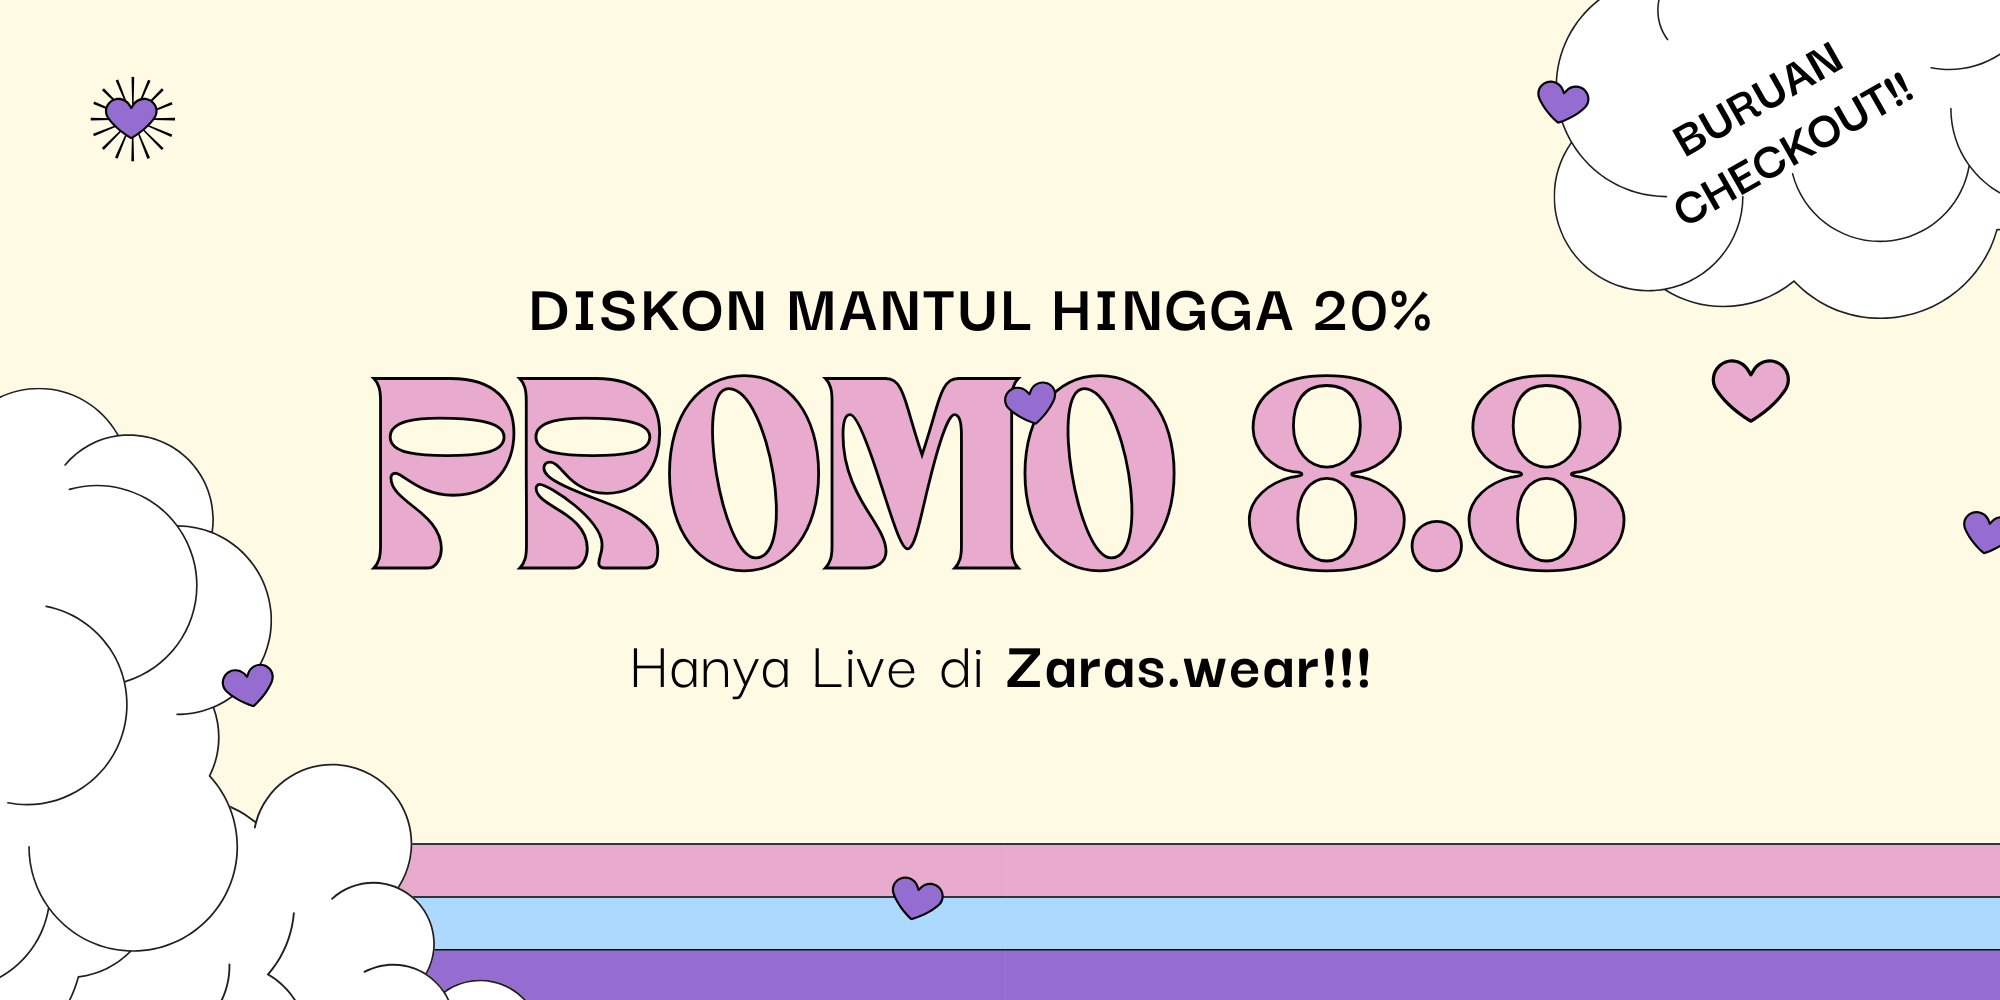
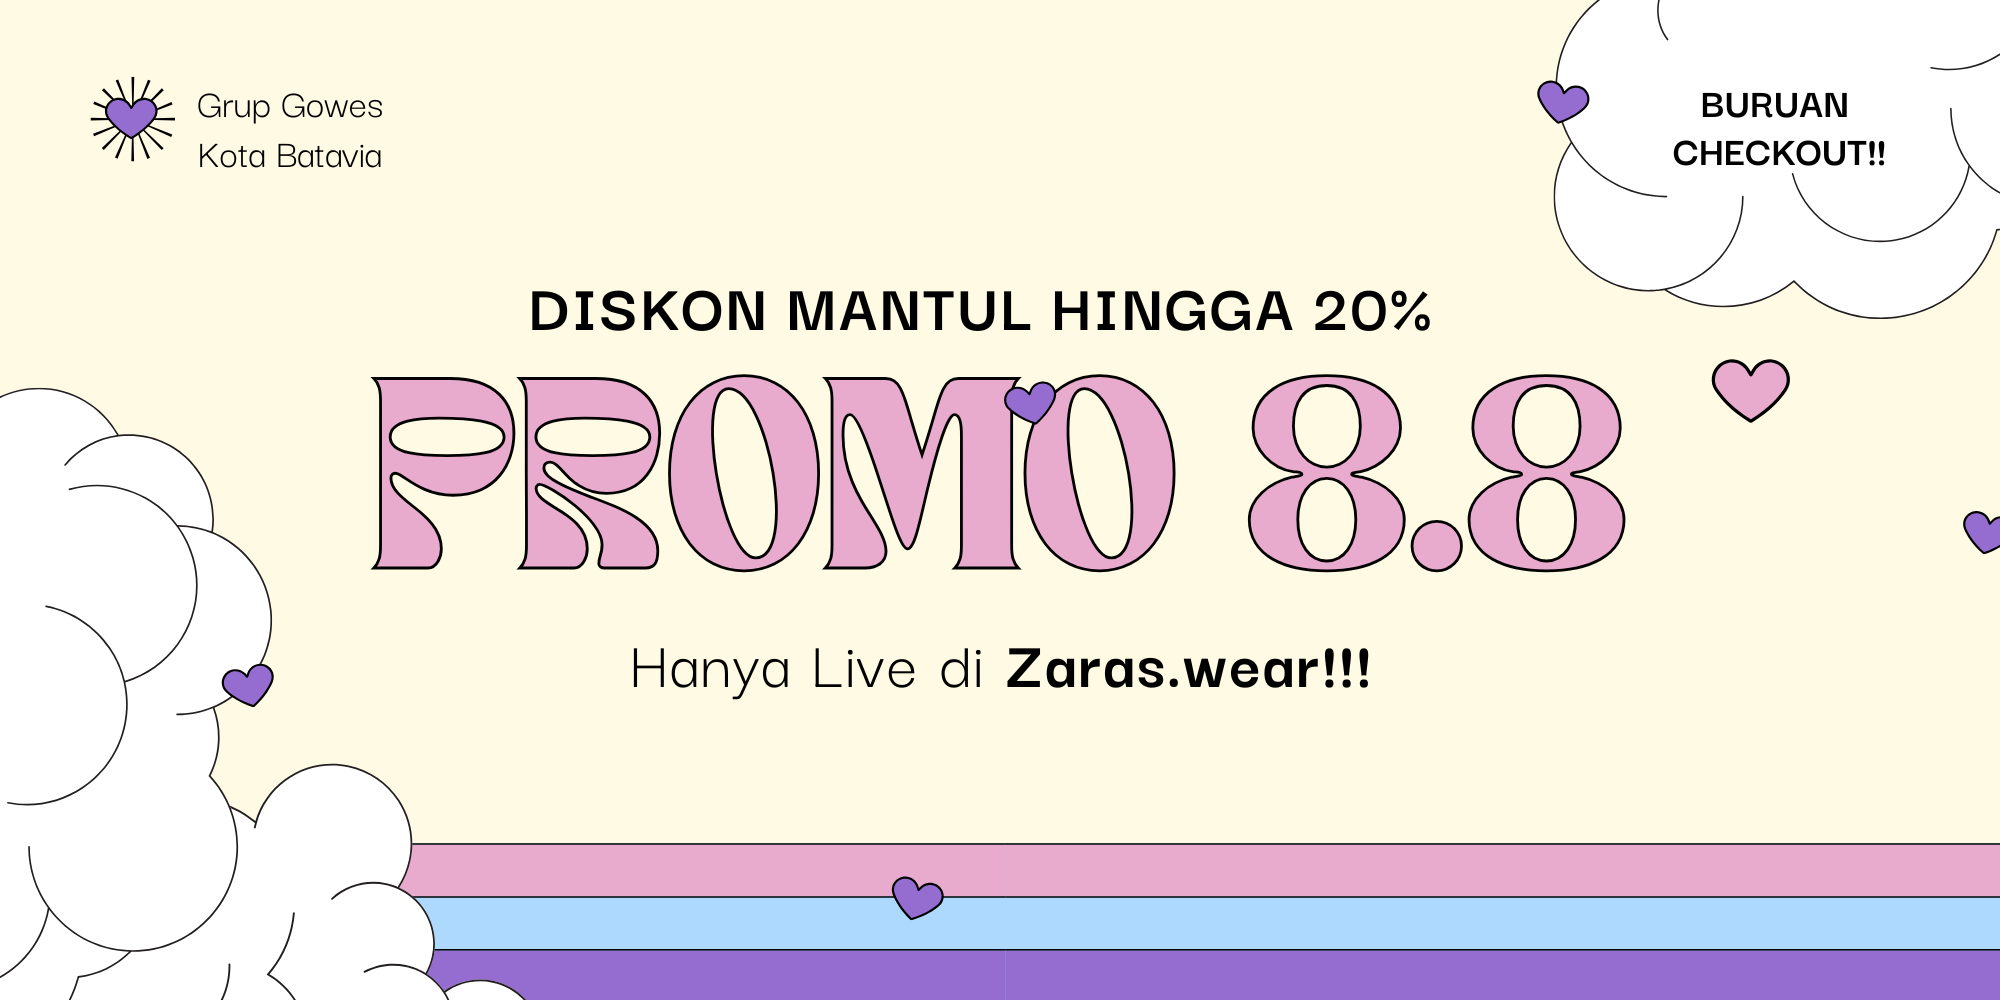
Fix: Update Interface

Changed region(s): [[0.837, 0.031, 0.961, 0.217], [0.093, 0.155, 0.186, 0.186], [0.093, 0.093, 0.186, 0.124]]

diff --git a/templates/sidebar.html b/templates/sidebar.html
@@ -36,7 +36,7 @@
 <body>
   <header class="navbar navbar-dark sticky-top flex-md-nowrap p-0 shadow" style="height: 65px;">
     <a class="navbar-brand col-md-3 col-lg-2 me-0 px-3" href="#" style="margin-left: 20px;"><img
-        src="{{ url_for('static', filename='assets/img/Logo Zaraswear.png') }}" alt="" style="max-width: 50px;"></a>
+        src="{{ url_for('static', filename='assets/img/logo.png') }}" alt="" style="max-width: 50px;"></a>
     <button class="navbar-toggler position-absolute d-md-none collapsed" type="button" data-bs-toggle="collapse"
       data-bs-target="#sidebarMenu" aria-controls="sidebarMenu" aria-expanded="false" aria-label="Toggle navigation">
       <span class="navbar-toggler-icon"></span>

diff --git a/templates/footer.html b/templates/footer.html
@@ -50,7 +50,7 @@
       <a href="https://wa.me/6285777378622" class="d-flex align-items-center justify-content-center">
         <i class="bi bi-whatsapp"></i>
       </a>
-      <a href="https://facebook.com/" class="d-flex align-items-center justify-content-center">
+      <a href="https://www.facebook.com/nenng.rara?locale=id_ID" class="d-flex align-items-center justify-content-center">
         <i class="bi bi-facebook"></i>
       </a>
     </div>

diff --git a/templates/daftar.html b/templates/daftar.html
@@ -18,7 +18,7 @@
       align-items: center;
       height: 100vh;
       margin: 0;
-      background-image: url('../static/assets/img/Loginbg.png');
+      background-image: url('../static/assets/img/loginbg.png');
       background-position: center;
       background-repeat: no-repeat;
     }

diff --git a/templates/login.html b/templates/login.html
@@ -18,7 +18,7 @@
       align-items: center;
       height: 100vh;
       margin: 0;
-      background-image: url('../static/assets/img/Loginbg.png');
+      background-image: url('../static/assets/img/loginbg.png');
       background-position: center;
       background-repeat: no-repeat;
     }

diff --git a/static/assets/css/main.css b/static/assets/css/main.css
@@ -75,7 +75,7 @@ h6 {
 }
 
 .promoContent {
-  /* Additional styling for content inside the promo section */
+  /* Additional styling for content inside the   section */
   text-align: center;
   color: #ffffff; /* Example text color */
   /* Add more styles as needed */

diff --git a/app.py b/app.py
@@ -15,6 +15,7 @@ import string
 import os
 from os.path import join, dirname
 from dotenv import load_dotenv
+mongo_uri = os.environ.get("MONGO_URI")
 
 load_dotenv()
 client = MongoClient("mongodb+srv://zaraswear08:zaraswear2024@cluster0.4u1zfms.mongodb.net/dbzaraswear?retryWrites=true&w=majority")
@@ -820,5 +821,5 @@ def delete_outwear(outwear_id):
             return jsonify({"result": "error", "message": str(e)}), 400  # Return error message and HTTP status 400 (Bad Request) for client-side debugging
 
 if __name__ == "__main__":
-    app.run(host='0.0.0.0', port=5000, debug=True)
+    app.run(debug=True)
 
